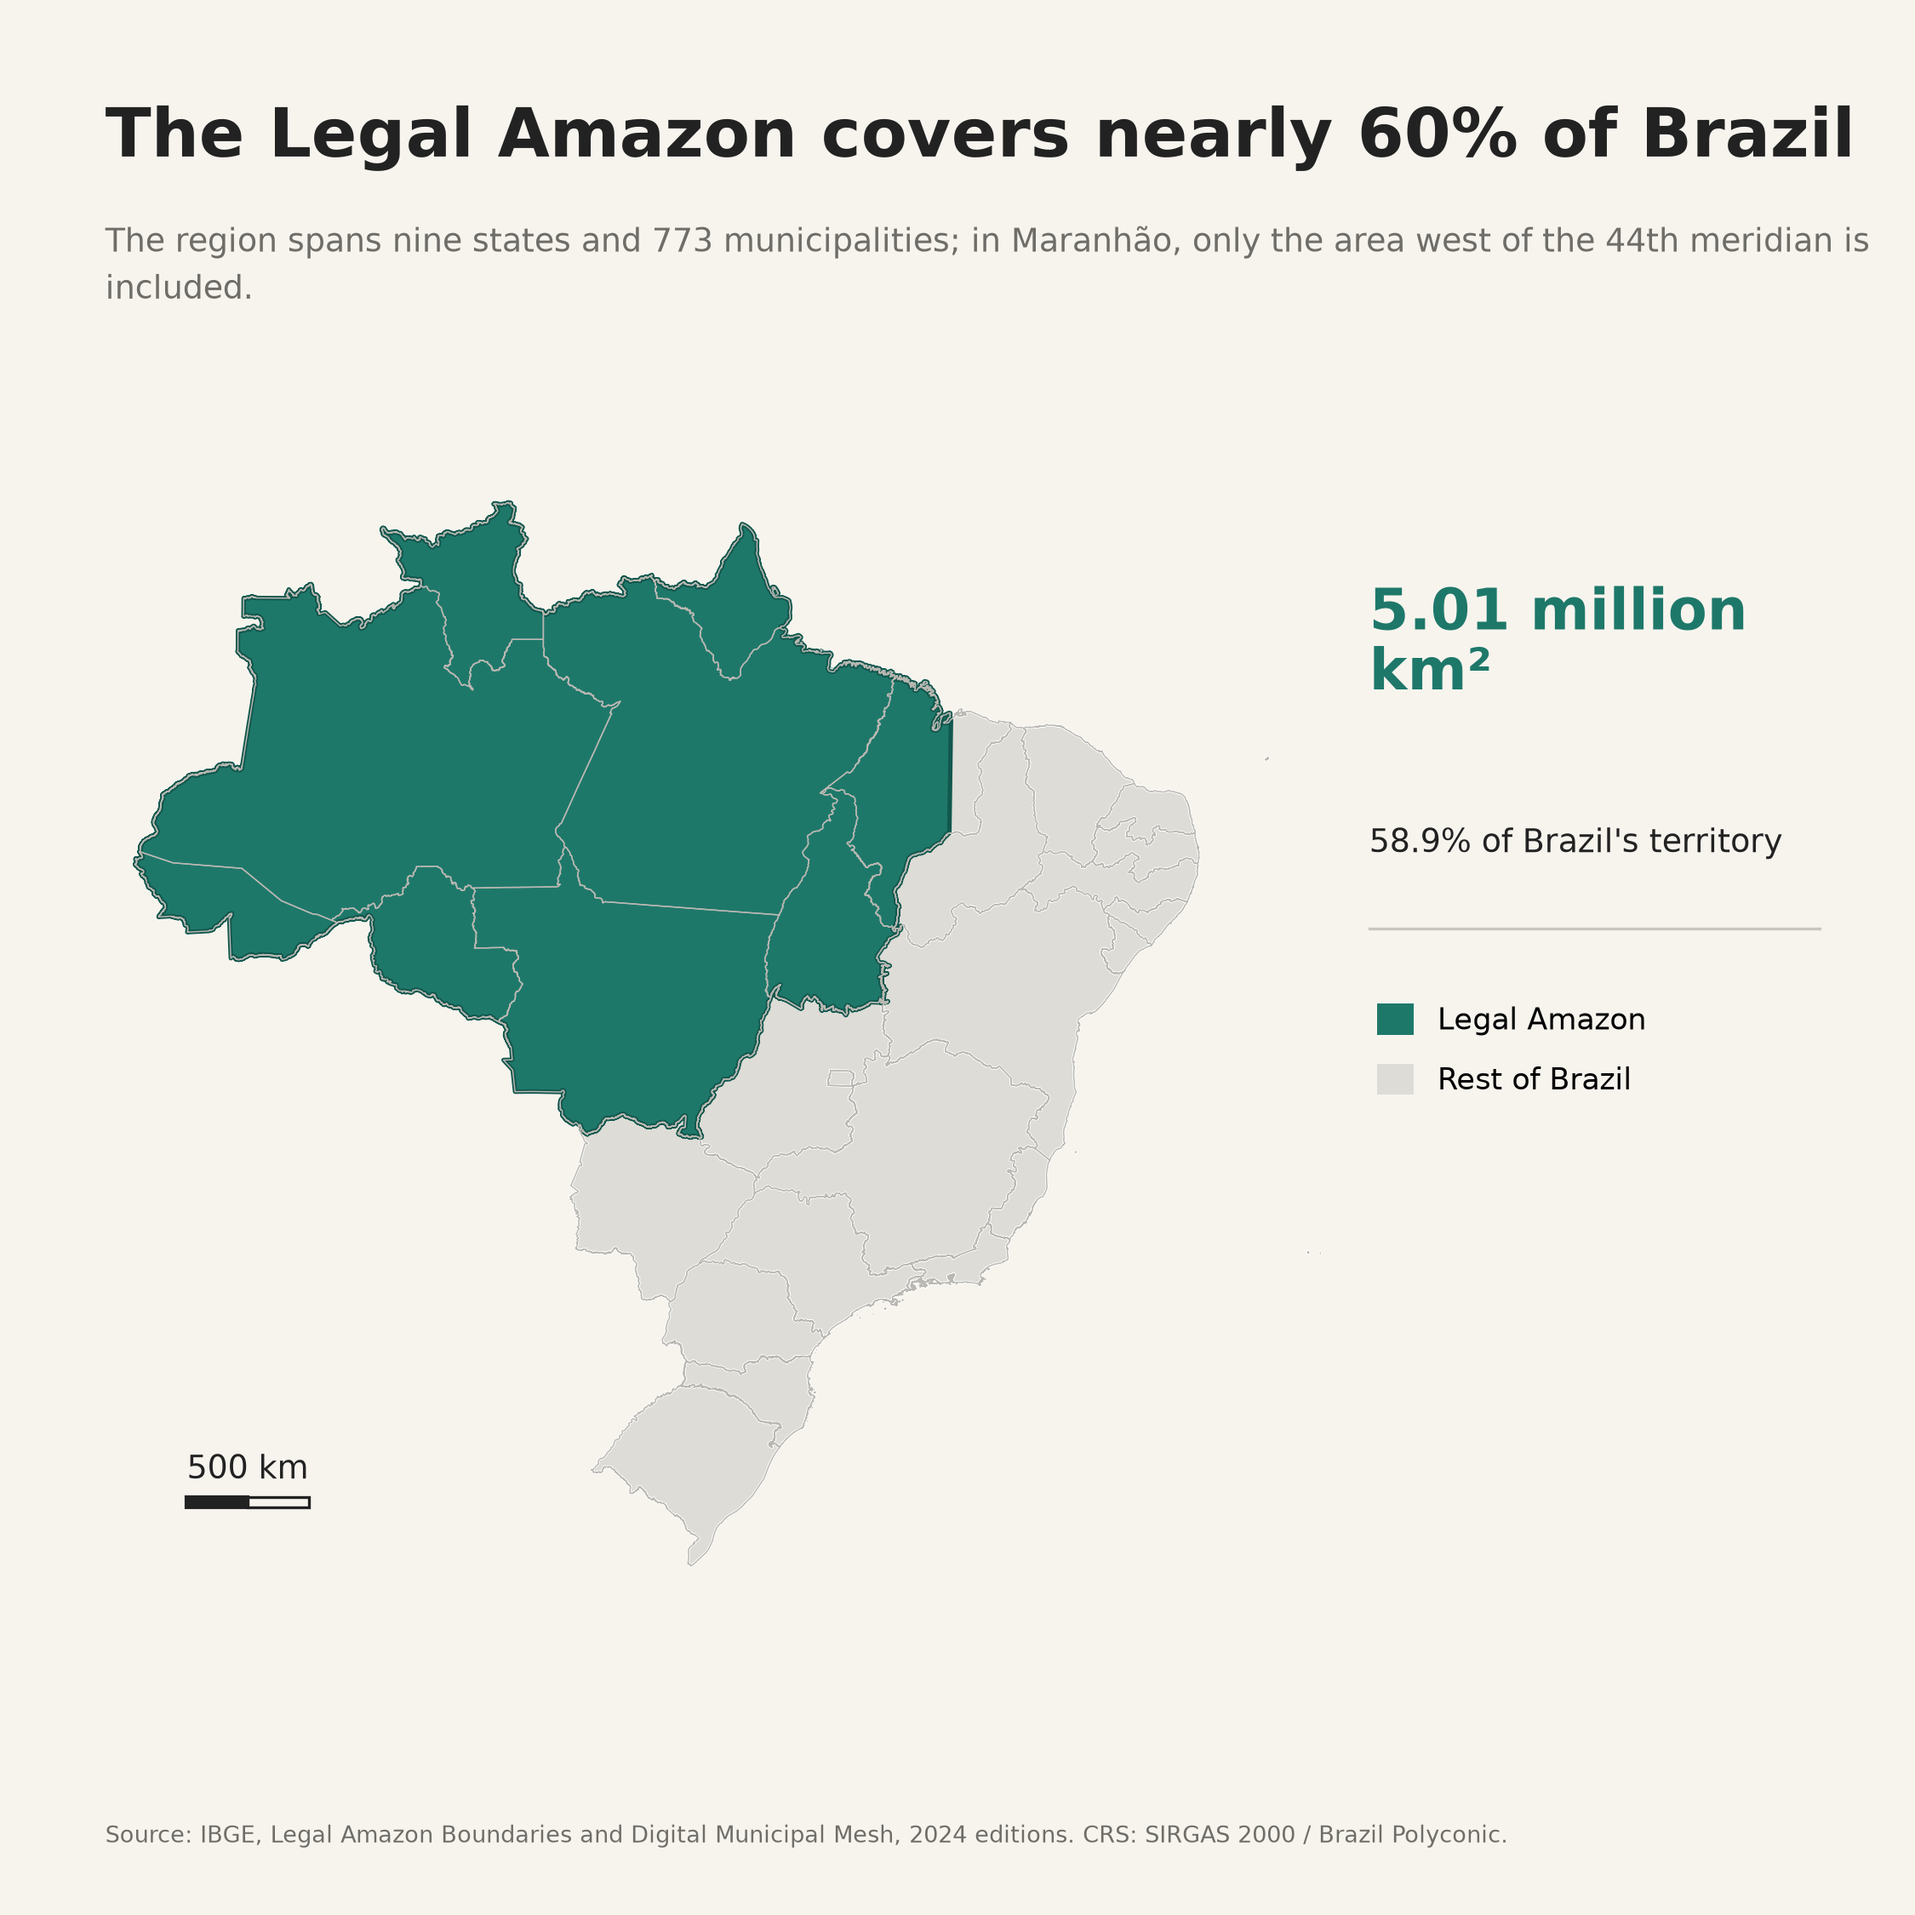
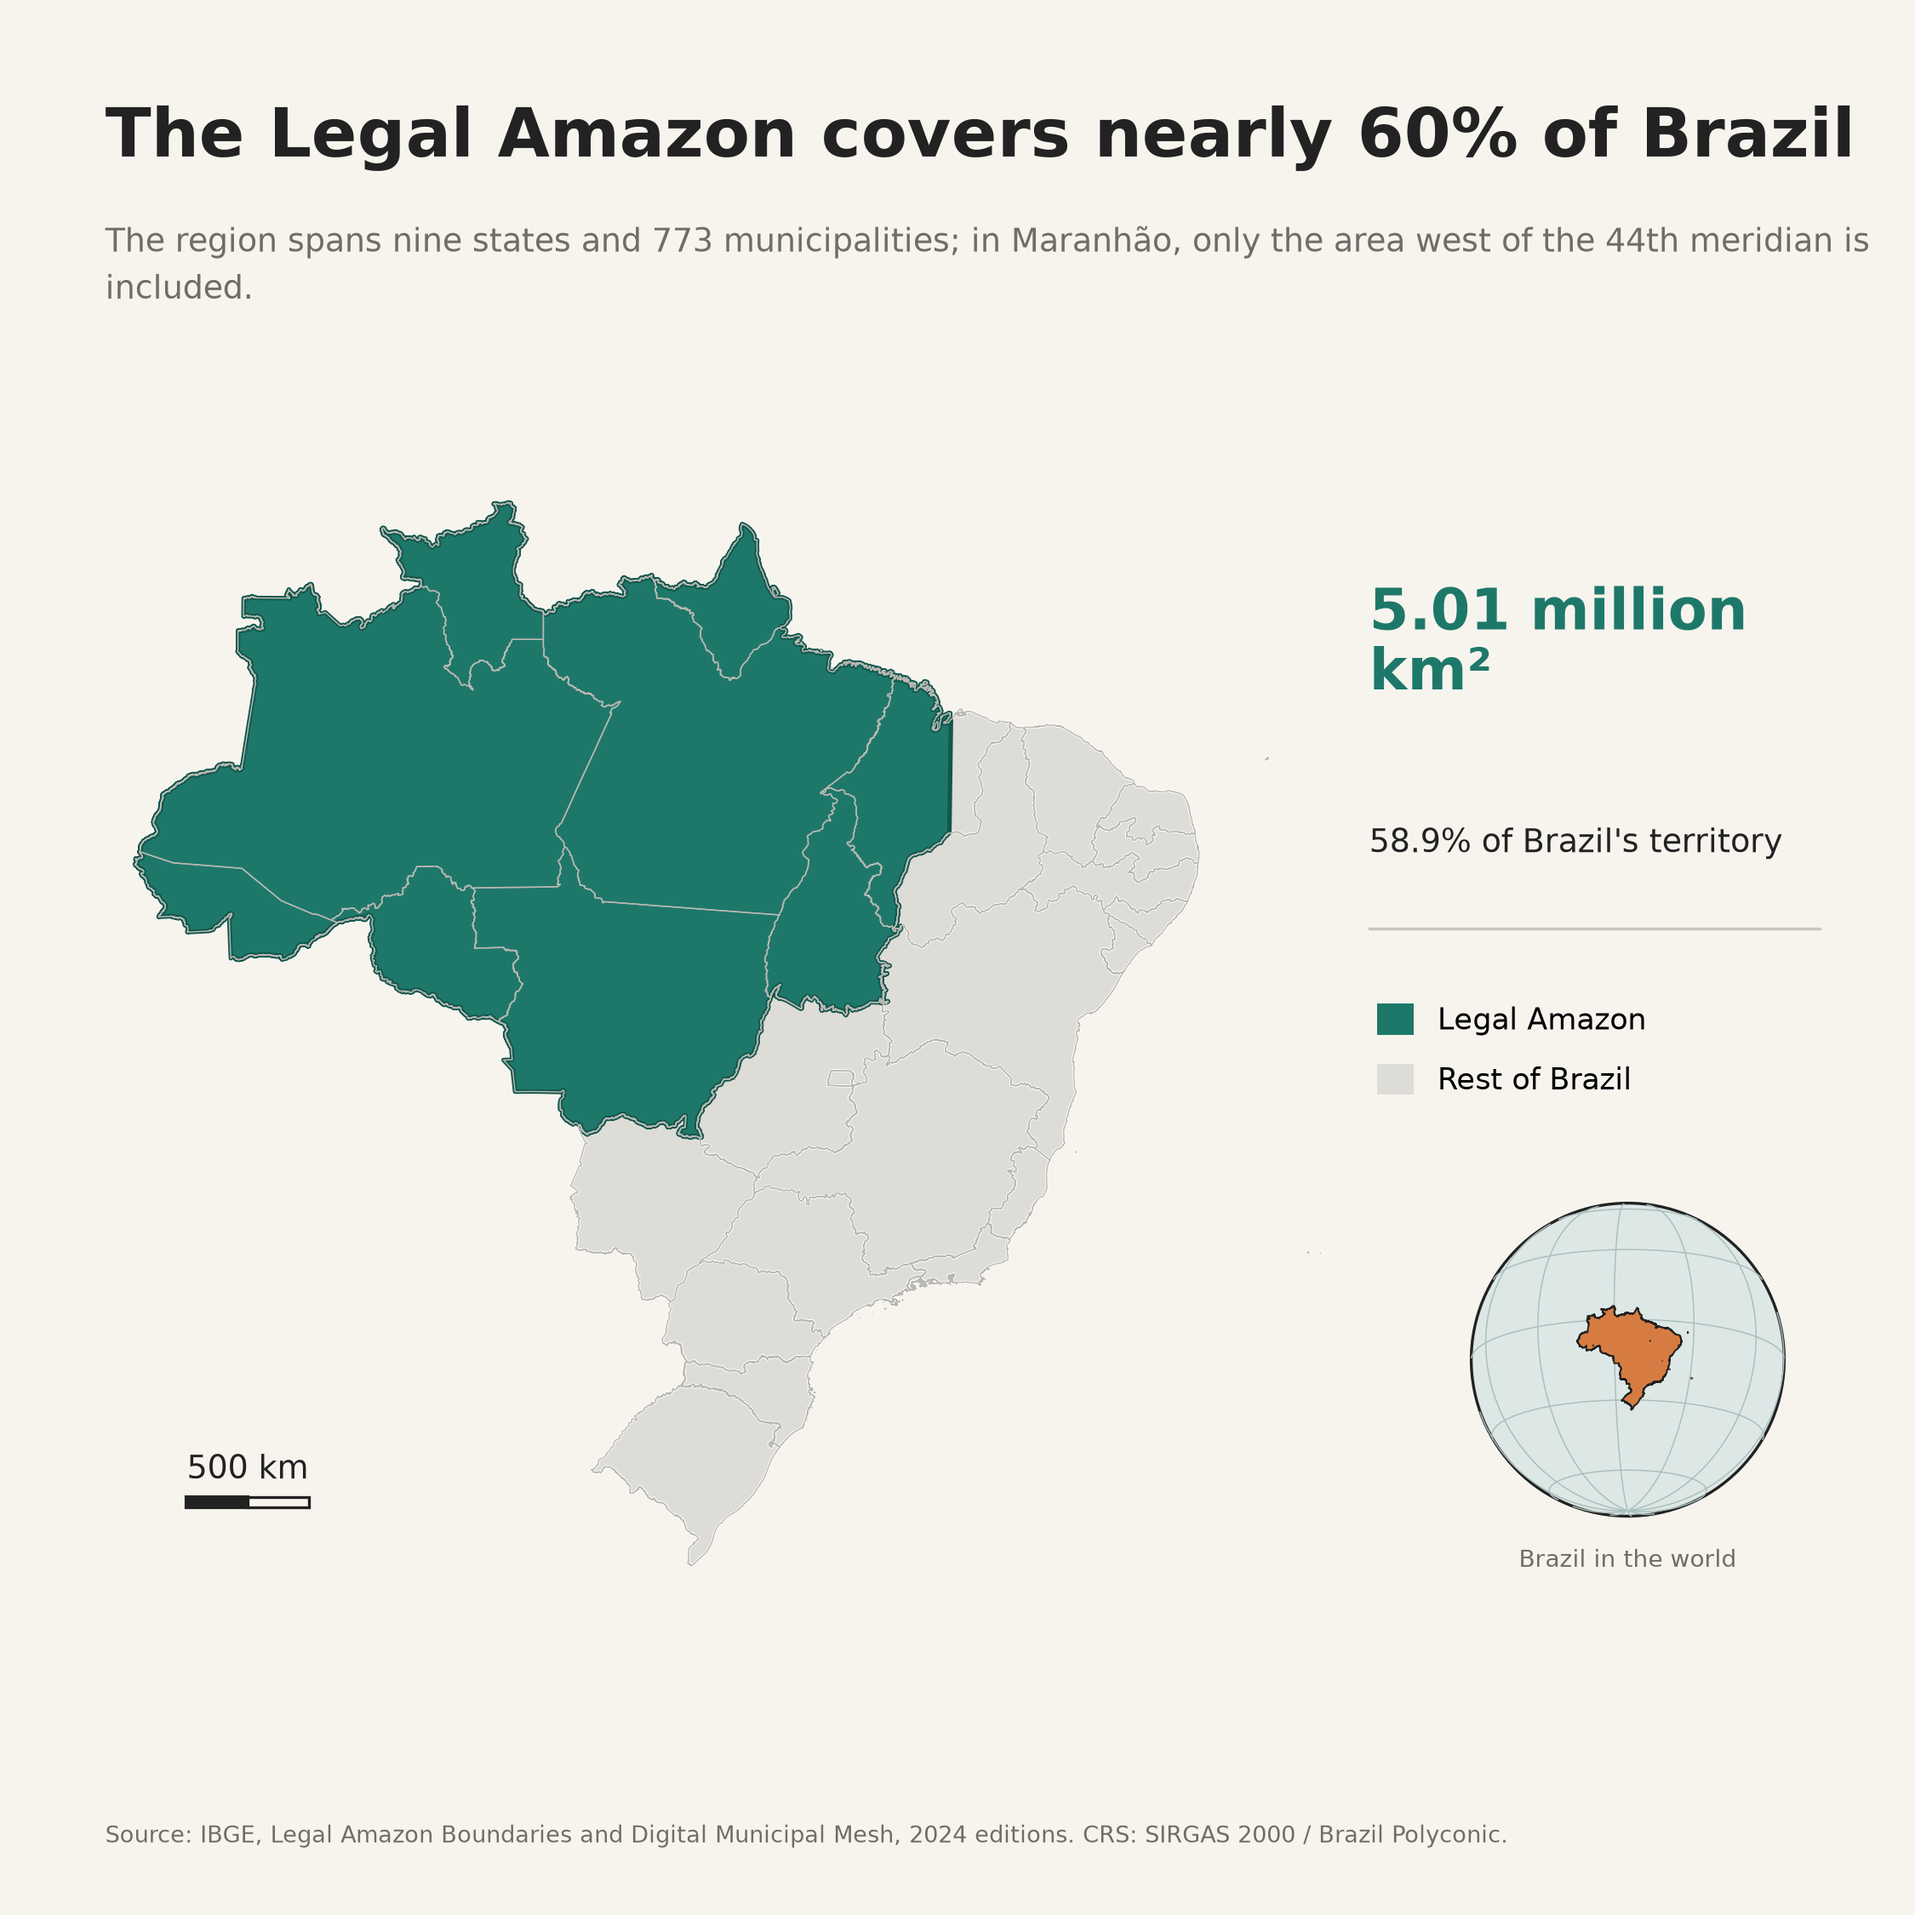
Add required globe locator inset

Changed region(s): [[0.7467, 0.6222, 0.9333, 0.8089]]

diff --git a/maps/legal_amazon.py b/maps/legal_amazon.py
@@ -16,7 +16,8 @@ from zipfile import ZipFile
 import geopandas as gpd
 import matplotlib.pyplot as plt
 from matplotlib.lines import Line2D
-from matplotlib.patches import Rectangle
+from matplotlib.patches import Circle, Rectangle
+from pyproj import Transformer
 
 
 ROOT = Path(__file__).resolve().parents[1]
@@ -57,6 +58,7 @@ TEXT = {
         "area": "5,01 milhões\nde km²",
         "share": "58,9% do território nacional",
         "scale": "500 km",
+        "inset": "Brasil no mundo",
         "source": (
             "Fonte: IBGE, Limites da Amazônia Legal e Malha Municipal Digital, "
             "edições 2024. CRS: SIRGAS 2000 / Brazil Polyconic."
@@ -73,6 +75,7 @@ TEXT = {
         "area": "5.01 million\nkm²",
         "share": "58.9% of Brazil's territory",
         "scale": "500 km",
+        "inset": "Brazil in the world",
         "source": (
             "Source: IBGE, Legal Amazon Boundaries and Digital Municipal Mesh, "
             "2024 editions. CRS: SIRGAS 2000 / Brazil Polyconic."
@@ -88,6 +91,9 @@ COLORS = {
     "amazon_edge": "#11574D",
     "ink": "#222222",
     "muted": "#6E6D68",
+    "ocean": "#DDE8E6",
+    "globe_line": "#A9BEBA",
+    "locator": "#D67C42",
 }
 
 
@@ -128,7 +134,63 @@ def add_scale_bar(ax: plt.Axes, label: str) -> None:
     )
 
 
-def render(language: str, states: gpd.GeoDataFrame, amazon: gpd.GeoDataFrame) -> None:
+def add_globe_inset(fig: plt.Figure, states_wgs84: gpd.GeoDataFrame, label: str) -> None:
+    """Add an orthographic locator globe centered on Brazil."""
+    globe = fig.add_axes((0.765, 0.205, 0.17, 0.17), facecolor="none")
+    radius = 6_371_000
+    boundary = Circle(
+        (0, 0), radius, facecolor=COLORS["ocean"],
+        edgecolor=COLORS["ink"], linewidth=0.8, zorder=0,
+    )
+    globe.add_patch(boundary)
+
+    transformer = Transformer.from_crs(
+        "EPSG:4674", "+proj=ortho +lat_0=-15 +lon_0=-55 +ellps=GRS80 +units=m",
+        always_xy=True,
+    )
+
+    def plot_graticule(lons: list[float], lats: list[float]) -> None:
+        xs, ys = transformer.transform(lons, lats)
+        segment_x: list[float] = []
+        segment_y: list[float] = []
+        for x, y in zip(xs, ys, strict=True):
+            if abs(x) <= radius and abs(y) <= radius:
+                segment_x.append(x)
+                segment_y.append(y)
+            elif segment_x:
+                globe.plot(segment_x, segment_y, color=COLORS["globe_line"], linewidth=0.35, zorder=1)
+                segment_x, segment_y = [], []
+        if segment_x:
+            globe.plot(segment_x, segment_y, color=COLORS["globe_line"], linewidth=0.35, zorder=1)
+
+    samples = list(range(-180, 181, 2))
+    for latitude in (-60, -30, 0, 30, 60):
+        plot_graticule(samples, [latitude] * len(samples))
+    lat_samples = list(range(-89, 90, 2))
+    for longitude in range(-180, 180, 30):
+        plot_graticule([longitude] * len(lat_samples), lat_samples)
+
+    brazil = states_wgs84.dissolve().to_crs(
+        "+proj=ortho +lat_0=-15 +lon_0=-55 +ellps=GRS80 +units=m"
+    )
+    brazil.plot(
+        ax=globe, facecolor=COLORS["locator"], edgecolor=COLORS["ink"],
+        linewidth=0.45, zorder=3,
+    )
+    globe.set_xlim(-radius * 1.04, radius * 1.04)
+    globe.set_ylim(-radius * 1.04, radius * 1.04)
+    globe.set_aspect("equal")
+    globe.set_axis_off()
+    globe.text(
+        0.5, -0.08, label, transform=globe.transAxes, ha="center", va="top",
+        fontsize=6.8, color=COLORS["muted"],
+    )
+def render(
+    language: str,
+    states: gpd.GeoDataFrame,
+    amazon: gpd.GeoDataFrame,
+    states_wgs84: gpd.GeoDataFrame,
+) -> None:
     copy = TEXT[language]
     fig = plt.figure(figsize=(7.5, 7.5), facecolor=COLORS["paper"])
     ax = fig.add_axes((0.055, 0.16, 0.65, 0.60), facecolor=COLORS["paper"])
@@ -151,6 +213,7 @@ def render(language: str, states: gpd.GeoDataFrame, amazon: gpd.GeoDataFrame) ->
     ax.set_axis_off()
     ax.set_aspect("equal")
     add_scale_bar(ax, copy["scale"])
+    add_globe_inset(fig, states_wgs84, copy["inset"])
 
     fig.text(
         0.055, 0.945, copy["title"], ha="left", va="top",
@@ -190,10 +253,11 @@ def render(language: str, states: gpd.GeoDataFrame, amazon: gpd.GeoDataFrame) ->
 
 
 def main() -> None:
-    states = gpd.read_file(ensure_source(SOURCES["states"])).to_crs(CRS_MAP)
+    states_wgs84 = gpd.read_file(ensure_source(SOURCES["states"]))
+    states = states_wgs84.to_crs(CRS_MAP)
     amazon = gpd.read_file(ensure_source(SOURCES["legal_amazon"])).to_crs(CRS_MAP)
     for language in TEXT:
-        render(language, states, amazon)
+        render(language, states, amazon, states_wgs84)
         print(f"Generated {language}")
 
 

diff --git a/AGENTS.md b/AGENTS.md
@@ -56,6 +56,21 @@ Cada figura deve equilibrar beleza, clareza e rigor cientifico. Elementos
 decorativos que nao contribuam para a leitura ou para o argumento devem ser
 evitados.
 
+## Inset map obrigatorio
+
+Todo mapa deve incluir um inset de localizacao em estilo globo, usando projecao
+ortografica e destacando o Brasil. O inset deve ser discreto, editorialmente
+integrado ao layout e suficientemente legivel no tamanho final de publicacao.
+
+Usar a geometria oficial do IBGE para representar e destacar o Brasil. O globo
+pode usar uma base mundial publica apenas como contexto, sempre com fonte e
+licenca documentadas. O inset deve conter grade geografica sutil, contraste
+acessivel e rotulo em `pt-BR` ou `en-US`, conforme a versao do mapa.
+
+O inset nao deve encobrir dados, legenda, escala, notas ou outros elementos
+essenciais. Sua posicao pode variar para se adaptar ao conteudo, mas ele nao
+pode ser omitido.
+
 ## Tecnologia principal
 
 Todos os mapas devem ser produzidos de forma reproduzivel em Python. Priorizar
